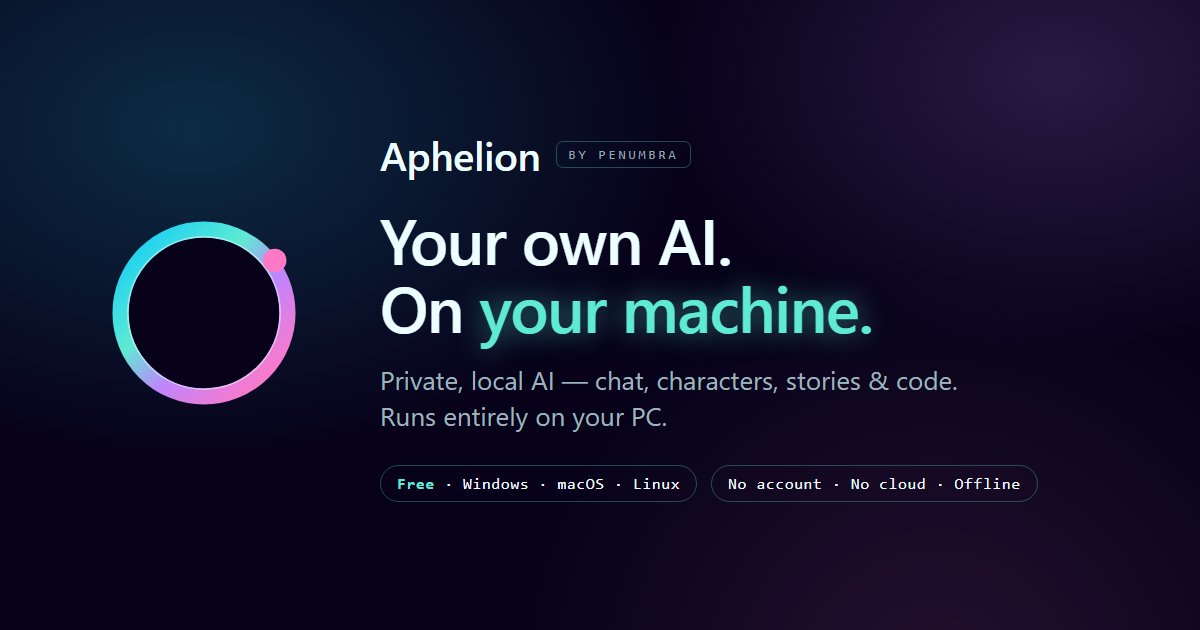
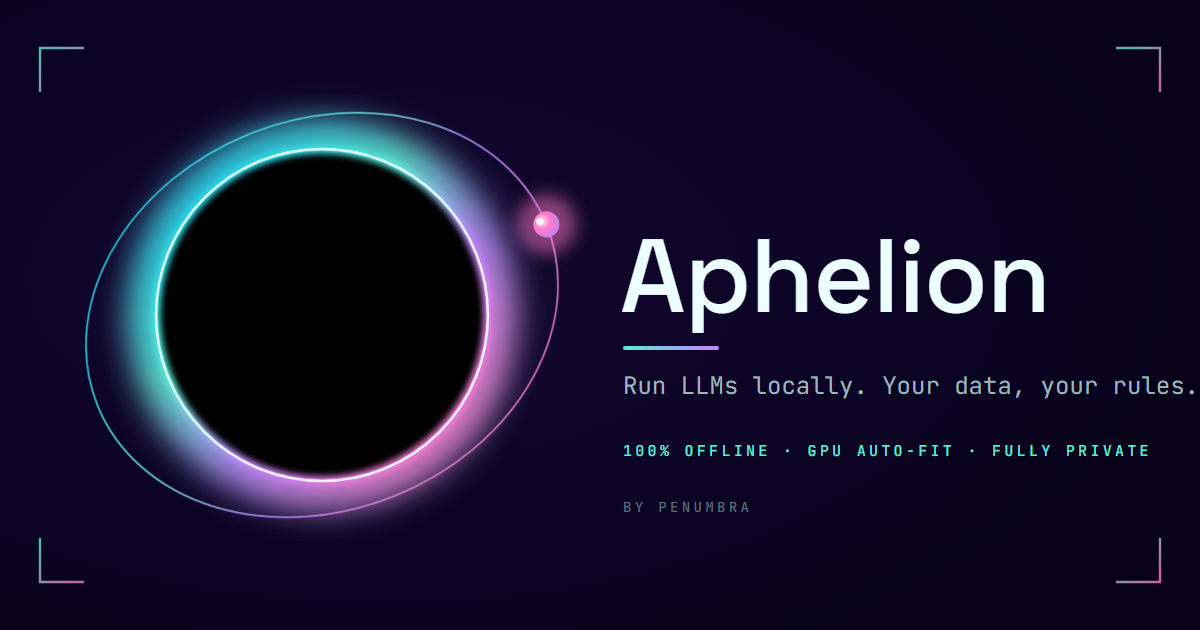
brand: enlarge eclipse + prominent aphelion orbit across all surfaces
Propagated the bigger-eclipse + two-pass orbital track + magenta planet-at-far-vertex treatment from the README banner to: the og + x social cards, the core corona-eclipse mark, the .io site hero accent + favicon.svg, and regenerated the served og-image.png link preview (rendered with the bundled Space Grotesk / JetBrains Mono woff2 so the typography stays on-brand). -20deg -> -22deg tilt everywhere for a unified look.

diff --git a/docs/index.html b/docs/index.html
@@ -304,11 +304,12 @@
             <radialGradient id="ec-planet" cx="38%" cy="34%" r="72%"><stop offset="0%" stop-color="#FFE6F5"/><stop offset="45%" stop-color="#FF79C6"/><stop offset="100%" stop-color="#C084FC"/></radialGradient>
             <filter id="ec-s" x="-60%" y="-60%" width="220%" height="220%"><feGaussianBlur stdDeviation="11"/></filter>
           </defs>
-          <g transform="rotate(-20 128 128)">
-            <ellipse cx="128" cy="128" rx="106" ry="84" fill="none" stroke="url(#ec-r)" stroke-width="1.5" opacity=".5"/>
-            <circle cx="234" cy="128" r="16" fill="#FF79C6" opacity=".5" filter="url(#ec-s)"/>
-            <circle cx="234" cy="128" r="7" fill="url(#ec-planet)"/>
-            <circle cx="231" cy="125" r="2" fill="#fff" opacity=".9"/>
+          <g transform="rotate(-22 128 128)">
+            <ellipse cx="128" cy="128" rx="108" ry="86" fill="none" stroke="url(#ec-r)" stroke-width="2.4" opacity=".3"/>
+            <ellipse cx="128" cy="128" rx="108" ry="86" fill="none" stroke="url(#ec-r)" stroke-width="1.3" opacity=".7"/>
+            <circle cx="236" cy="128" r="16" fill="#FF79C6" opacity=".5" filter="url(#ec-s)"/>
+            <circle cx="236" cy="128" r="7.5" fill="url(#ec-planet)"/>
+            <circle cx="233" cy="125" r="2" fill="#fff" opacity=".9"/>
           </g>
           <circle cx="128" cy="128" r="86" fill="url(#ec-b)" filter="url(#ec-s)"/>
           <circle cx="128" cy="128" r="72" fill="none" stroke="url(#ec-r)" stroke-width="20" filter="url(#ec-s)" opacity=".8"/>